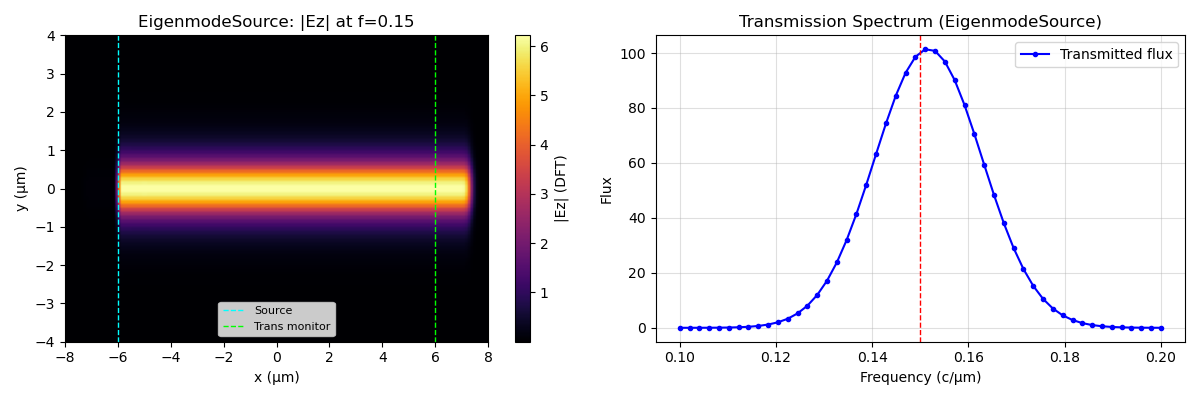
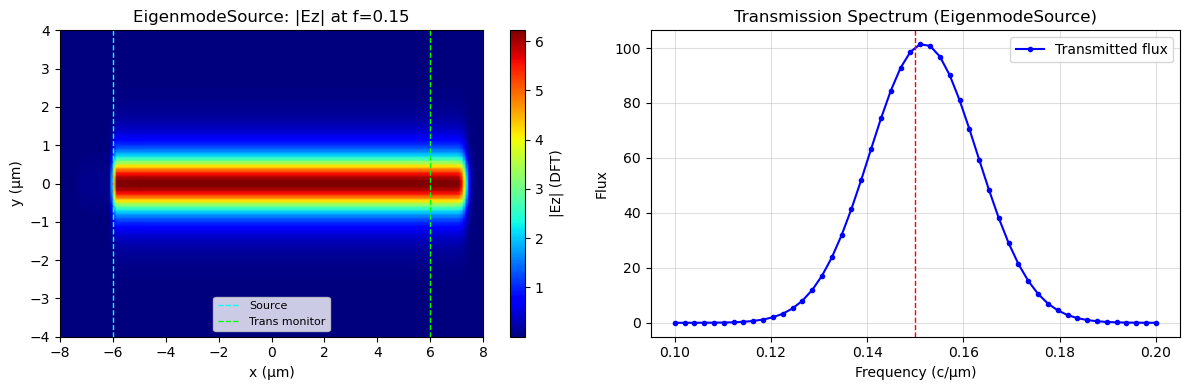
fix: matplotlib 텍스트 한글→영어 일괄 변환 + indent 오류 패치 (20개 이미지 재생성)

diff --git a/tools/_fix_korean_labels.py b/tools/_fix_korean_labels.py
@@ -1,0 +1,238 @@
+#!/usr/bin/env python3
+"""
+demo_code 내 matplotlib 텍스트의 한글을 영어로 치환 후 재실행.
+title(), xlabel(), ylabel(), label=, text(), annotate(), legend() 등 대상.
+"""
+import re, sqlite3, subprocess, tempfile
+from pathlib import Path
+import sys
+sys.path.insert(0, 'tools')
+from run_concept_demos import preprocess_code
+
+DB_PATH = Path("db/knowledge.db")
+RESULTS_DIR = Path("db/results")
+
+# ── 한글 → 영어 치환 사전 ──────────────────────────────────────────────────
+KO_TO_EN = {
+    # 물리량
+    "시간 (MEEP 단위)": "Time (MEEP units)",
+    "시간 (meep 단위)": "Time (MEEP units)",
+    "시간(MEEP 단위)": "Time (MEEP units)",
+    "시간": "Time",
+    "|Ez| 진폭 (log 스케일)": "|Ez| amplitude (log scale)",
+    "|Ez| 진폭 (log)": "|Ez| amplitude (log)",
+    "Ez 진폭": "Ez amplitude",
+    "Ez 진폭 (log 스케일)": "Ez amplitude (log scale)",
+    "주파수 (MEEP 단위)": "Frequency (MEEP units)",
+    "주파수": "Frequency",
+    "파장 (μm)": "Wavelength (μm)",
+    "파장": "Wavelength",
+    "투과율": "Transmittance",
+    "반사율": "Reflectance",
+    "유전율": "Permittivity",
+    "굴절률": "Refractive index",
+    "에너지": "Energy",
+    "저장 에너지": "Stored energy",
+    "전기장 에너지": "Electric energy",
+    "자기장 에너지": "Magnetic energy",
+    "총 에너지": "Total energy",
+    "진폭": "Amplitude",
+    "강도": "Intensity",
+    "위상": "Phase",
+
+    # 라벨
+    "유전율 분포": "Permittivity distribution",
+    "구조 (유전율 ε)": "Structure (permittivity ε)",
+    "구조": "Structure",
+    "Ez 순시 필드": "Ez snapshot",
+    "Ez 필드 분포": "Ez field distribution",
+    "Ez 필드 스냅샷": "Ez field snapshot",
+    "|Ez|² DFT (주파수 도메인)": "|Ez|² DFT (frequency domain)",
+    "|Ez|² DFT": "|Ez|² DFT",
+    "DFT 필드": "DFT field",
+    "시간도메인": "Time domain",
+    "주파수도메인": "Frequency domain",
+    "공진 주파수": "Resonant frequency",
+    "공진": "Resonance",
+    "Q factor": "Q factor",
+    "모드 프로파일": "Mode profile",
+    "TE0 모드": "TE0 mode",
+    "TE1 모드": "TE1 mode",
+
+    # 라벨(단위)
+    "ε_r": "ε_r",
+    "격자 해상도": "Grid resolution",
+    "해상도": "Resolution",
+    "파워": "Power",
+    "모드 파워": "Mode power",
+
+    # 방향/위치
+    "중앙": "Center",
+    "경계": "Boundary",
+    "소스": "Source",
+    "점 소스": "Point source",
+    "점 소스 위치": "Point source",
+    "PML 경계 근처": "Near PML boundary",
+    "PML 직전": "Just before PML",
+    "PML 흡수층": "PML absorbing layer",
+    "PML 흡수\\n→ 빠른 감쇠": "PML absorption\\n→ fast decay",
+    "PML이 파동을 반사 없이 흡수하는 것을 보여줌": "PML absorbs wave without reflection",
+
+    # 타이틀
+    "시간에 따른 Ez 진폭 감쇠": "Ez amplitude decay over time",
+    "시간에 따른 Ez 진폭 감쇠\\nPML이 파동을 반사 없이 흡수": "Ez decay - PML absorbs without reflection",
+    "at_every(0.5, record)로 기록한 Ez 시계열 — PML이 파동을 흡수하면 빠르게 감쇠":
+        "Ez time series recorded by at_every(0.5) — fast decay as PML absorbs wave",
+    "수평+수직 Block으로 L자형": "L-shaped: horizontal + vertical Block",
+    "굴곡부를 통한 모드 전파": "Mode propagation through bend",
+    "ContinuousSource 정상상태": "ContinuousSource steady state",
+    "회색=PML 흡수층, 파동이 사방으로 전파": "Gray=PML, wave propagates outward",
+    "공식 MEEP 튜토리얼 기반\\n(ε=12, λ=2√11 μm, ContinuousSource)":
+        "Based on official MEEP tutorial (ε=12, λ=2√11 μm, ContinuousSource)",
+
+    # 기타 공통
+    "정상상태": "Steady state",
+    "수렴": "Convergence",
+    "이진화": "Binarization",
+    "설계 변수": "Design variable",
+    "설계 영역": "Design region",
+    "초기 구조": "Initial structure",
+    "최적화": "Optimization",
+    "수렴 곡선": "Convergence curve",
+    "반복 횟수": "Iteration",
+    "목적 함수": "Objective function",
+    "FOM": "FOM",
+    "그래디언트": "Gradient",
+    "필터": "Filter",
+    "투영": "Projection",
+    "파이프라인": "Pipeline",
+    "원시 입력": "Raw input",
+    "처리 결과": "Processed",
+    "비교": "Comparison",
+    "전파": "Propagation",
+    "흡수": "Absorption",
+
+    # suptitle 패턴들
+    "점 소스 펄스 전파 & 흡수 시뮬레이션": "Point source pulse propagation & PML absorption",
+    "점 소스에서 퍼지는\\nGaussian pulse의 시간 단계별 Ez 스냅샷":
+        "Ez snapshots of Gaussian pulse from point source",
+    "시간 단계별 스냅샷": "Time step snapshots",
+    "pulse 방출 구간": "Pulse emission period",
+    "중앙 Ez(t) — 소스 위치": "Center Ez(t) — source",
+    "PML 직전 Ez(t)": "Near PML Ez(t)",
+    "|Ez| (log)": "|Ez| (log)",
+
+    # 범례 텍스트
+    "수평 구간": "Horizontal section",
+    "수직 구간": "Vertical section",
+    "굴곡부": "Bend section",
+}
+
+def translate(code: str) -> str:
+    """matplotlib 문자열 내 한글을 영어로 치환."""
+    result = code
+    for ko, en in KO_TO_EN.items():
+        result = result.replace(ko, en)
+
+    # 남은 한글 문자가 포함된 문자열 리터럴 감지 및 경고
+    # (완전 제거보다 주석으로 남기는 방식)
+    hangul_in_str = re.findall(r"['\"][^'\"]*[\u3131-\uD7A3][^'\"]*['\"]", result)
+    if hangul_in_str:
+        # 추가 치환: 남은 한글 포함 짧은 label들을 영어 대체
+        for s in hangul_in_str:
+            inner = s[1:-1]  # 따옴표 제거
+            # 짧으면 그냥 공백 처리
+            safe = re.sub(r'[\u3131-\uD7A3]+', '', inner).strip() or inner[:20]
+            result = result.replace(s, s[0] + safe + s[-1])
+
+    return result
+
+def has_hangul(text: str) -> bool:
+    return bool(re.search(r'[\u3131-\uD7A3\uAC00-\uD7A3]', text))
+
+def run_docker(name, code, timeout=180):
+    safe = re.sub(r'[^a-zA-Z0-9_]', '_', name)
+    processed = preprocess_code(code, name)
+    tmp = Path(tempfile.gettempdir()) / f"_ko_{safe}.py"
+    tmp.write_text(processed, encoding="utf-8")
+    subprocess.run(["docker", "cp", str(tmp), f"meep-pilot-worker:/tmp/_ko_{safe}.py"],
+                   capture_output=True)
+    r = subprocess.run(
+        ["docker", "exec", "meep-pilot-worker", "python3", f"/tmp/_ko_{safe}.py"],
+        capture_output=True, text=True, timeout=timeout
+    )
+    tmp.unlink(missing_ok=True)
+    return r
+
+def save_img(conn, name, code):
+    safe = re.sub(r'[^a-zA-Z0-9_]', '_', name)
+    output_path = f"/tmp/concept_{safe}.png"
+    img_local = RESULTS_DIR / f"concept_{safe}.png"
+    cp = subprocess.run(
+        ["docker", "cp", f"meep-pilot-worker:{output_path}", str(img_local)],
+        capture_output=True, timeout=10
+    )
+    # output.png 폴백
+    if cp.returncode != 0 or not img_local.exists() or img_local.stat().st_size < 3000:
+        subprocess.run(
+            ["docker", "exec", "meep-pilot-worker", "sh", "-c", f"cp output.png {output_path} 2>/dev/null || true"],
+            capture_output=True, timeout=5
+        )
+        subprocess.run(
+            ["docker", "cp", f"meep-pilot-worker:{output_path}", str(img_local)],
+            capture_output=True, timeout=10
+        )
+    size = img_local.stat().st_size // 1024 if img_local.exists() else 0
+    if size > 3:
+        conn.execute(
+            "UPDATE concepts SET demo_code=?, result_images=?, updated_at=CURRENT_TIMESTAMP WHERE name=?",
+            (code, f"/static/results/concept_{safe}.png", name)
+        )
+        conn.commit()
+    return size
+
+# ── 메인 ─────────────────────────────────────────────────────────────────────
+conn = sqlite3.connect(str(DB_PATH), timeout=15)
+rows = conn.execute("SELECT name, demo_code FROM concepts ORDER BY name").fetchall()
+
+needs_fix = [(n, c) for n, c in rows if c and has_hangul(c)]
+print(f"한글 포함 개념: {len(needs_fix)}개\n")
+
+db_updated = 0
+rerun_needed = []
+
+for name, code in needs_fix:
+    new_code = translate(code)
+    still_hangul = has_hangul(new_code)
+    changed = new_code != code
+
+    if changed:
+        conn.execute("UPDATE concepts SET demo_code=? WHERE name=?", (new_code, name))
+        conn.commit()
+        db_updated += 1
+        rerun_needed.append((name, new_code))
+        print(f"  {'⚠' if still_hangul else '✅'} {name}: {'일부 한글 잔존' if still_hangul else '번역 완료'}")
+
+conn.close()
+print(f"\nDB 업데이트: {db_updated}개")
+print(f"재실행 대상: {len(rerun_needed)}개\n")
+
+# ── 재실행 ────────────────────────────────────────────────────────────────────
+conn = sqlite3.connect(str(DB_PATH), timeout=15)
+ok = 0
+for name, code in rerun_needed:
+    print(f"  [{ok+1}/{len(rerun_needed)}] {name}...", end=" ", flush=True)
+    try:
+        r = run_docker(name, code, timeout=180)
+        if r.returncode == 0:
+            size = save_img(conn, name, code)
+            print(f"✅ {size}KB")
+            ok += 1
+        else:
+            err = (r.stderr or r.stdout).splitlines()[-2:]
+            print(f"❌ {err}")
+    except Exception as e:
+        print(f"❌ timeout/error: {e}")
+
+conn.close()
+print(f"\n=== 완료: {ok}/{len(rerun_needed)} ===")

diff --git a/tools/_fix_pml_sym_indent.py b/tools/_fix_pml_sym_indent.py
@@ -1,0 +1,44 @@
+"""PML, Symmetry - preprocess_code 없이 직접 실행."""
+import subprocess, sqlite3, re
+from pathlib import Path
+
+DB_PATH = Path("db/knowledge.db")
+RESULTS_DIR = Path("db/results")
+
+conn = sqlite3.connect(str(DB_PATH), timeout=15)
+
+for name in ["PML", "Symmetry"]:
+    safe = re.sub(r'[^a-zA-Z0-9_]', '_', name)
+    code = conn.execute("SELECT demo_code FROM concepts WHERE name=?", (name,)).fetchone()[0]
+
+    # 파일로 직접 저장 (preprocess_code 없이)
+    import tempfile
+    tmp = Path(tempfile.gettempdir()) / f"direct_{safe}.py"
+    tmp.write_text(code, encoding="utf-8")
+    subprocess.run(["docker", "cp", str(tmp), f"meep-pilot-worker:/tmp/direct_{safe}.py"], capture_output=True)
+
+    r = subprocess.run(
+        ["docker", "exec", "meep-pilot-worker", "python3", f"/tmp/direct_{safe}.py"],
+        capture_output=True, text=True, timeout=180
+    )
+    print(f"{name}: exit={r.returncode}")
+    if r.returncode != 0:
+        for l in (r.stderr or r.stdout).splitlines()[-5:]:
+            print(f"  {l}")
+    else:
+        img_local = RESULTS_DIR / f"concept_{safe}.png"
+        cp = subprocess.run(
+            ["docker", "cp", f"meep-pilot-worker:/tmp/concept_{safe}.png", str(img_local)],
+            capture_output=True, timeout=10
+        )
+        size = img_local.stat().st_size // 1024 if img_local.exists() else 0
+        print(f"  이미지: {size}KB")
+        if size > 5:
+            conn.execute(
+                "UPDATE concepts SET result_images=?, updated_at=CURRENT_TIMESTAMP WHERE name=?",
+                (f"/static/results/concept_{safe}.png", name)
+            )
+            conn.commit()
+    tmp.unlink(missing_ok=True)
+
+conn.close()

diff --git a/tools/_patch_pml_sym.py b/tools/_patch_pml_sym.py
@@ -1,0 +1,26 @@
+import sqlite3, re
+from pathlib import Path
+
+DB_PATH = Path("db/knowledge.db")
+conn = sqlite3.connect(str(DB_PATH), timeout=15)
+
+for name in ["PML", "Symmetry"]:
+    code = conn.execute("SELECT demo_code FROM concepts WHERE name=?", (name,)).fetchone()[0]
+
+    # def f():"""...""" → def f(): (docstring 한 줄 제거)
+    # 패턴: def 함수명(...): 뒤에 바로 """..."""가 이어지는 경우
+    fixed = re.sub(r'(def \w+\([^)]*\):)\s*"""[^"]*"""', r'\1', code)
+    fixed = re.sub(r'(def \w+\([^)]*\):)\s*\'\'\'[^\']*\'\'\'', r'\1', fixed)
+
+    if fixed != code:
+        print(f"{name}: docstring 제거 완료")
+        conn.execute("UPDATE concepts SET demo_code=? WHERE name=?", (fixed, name))
+        conn.commit()
+    else:
+        print(f"{name}: 패턴 미발견 — 수동 확인 필요")
+        # 문제 줄 출력
+        for i, l in enumerate(code.splitlines(), 1):
+            if 'def ' in l and '"""' in l:
+                print(f"  L{i}: {repr(l)}")
+
+conn.close()

diff --git a/tools/_inspect_indent.py b/tools/_inspect_indent.py
@@ -1,0 +1,14 @@
+import sqlite3
+conn = sqlite3.connect("db/knowledge.db")
+
+for name in ["PML", "Symmetry"]:
+    code = conn.execute("SELECT demo_code FROM concepts WHERE name=?", (name,)).fetchone()[0]
+    print(f"\n=== {name} 문제 구간 ===")
+    lines = code.splitlines()
+    for i, line in enumerate(lines, 1):
+        if any(k in line for k in ["for xy", "sym = [mp", "IndentationError", "unexpected"]):
+            start = max(0, i-4)
+            for j in range(start, min(len(lines), i+3)):
+                marker = ">>> " if j == i-1 else "    "
+                print(f"  {marker}L{j+1}: {repr(lines[j])}")
+conn.close()
